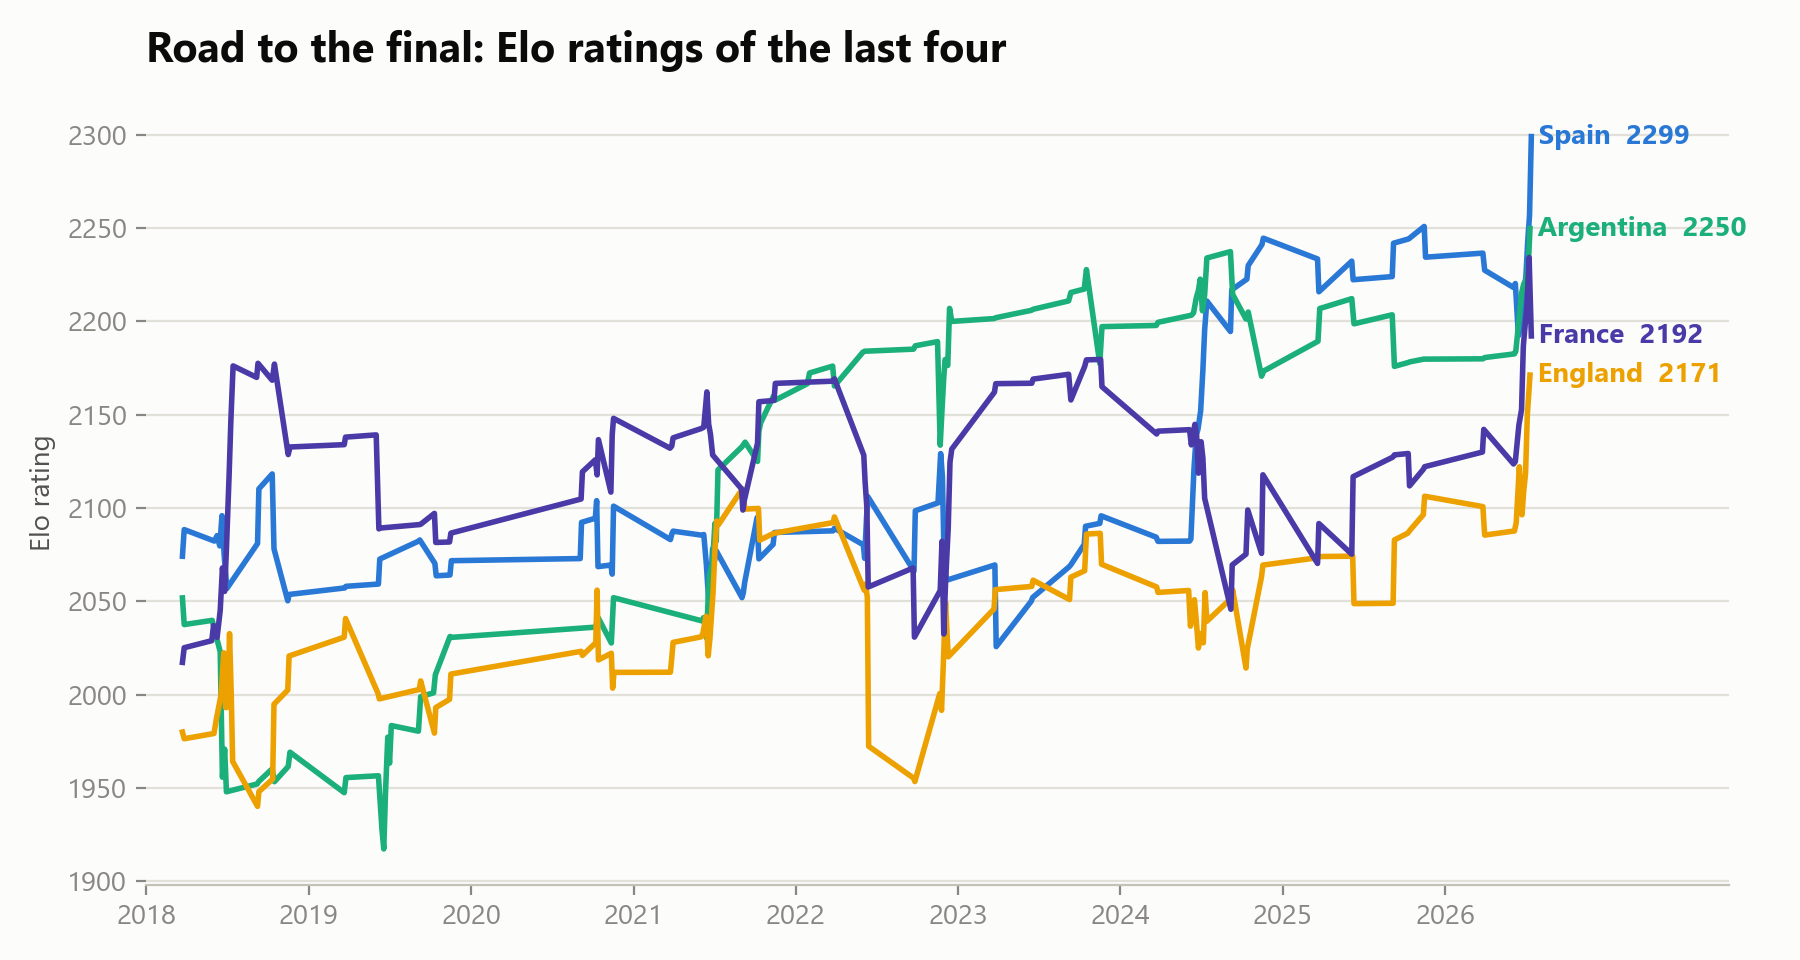
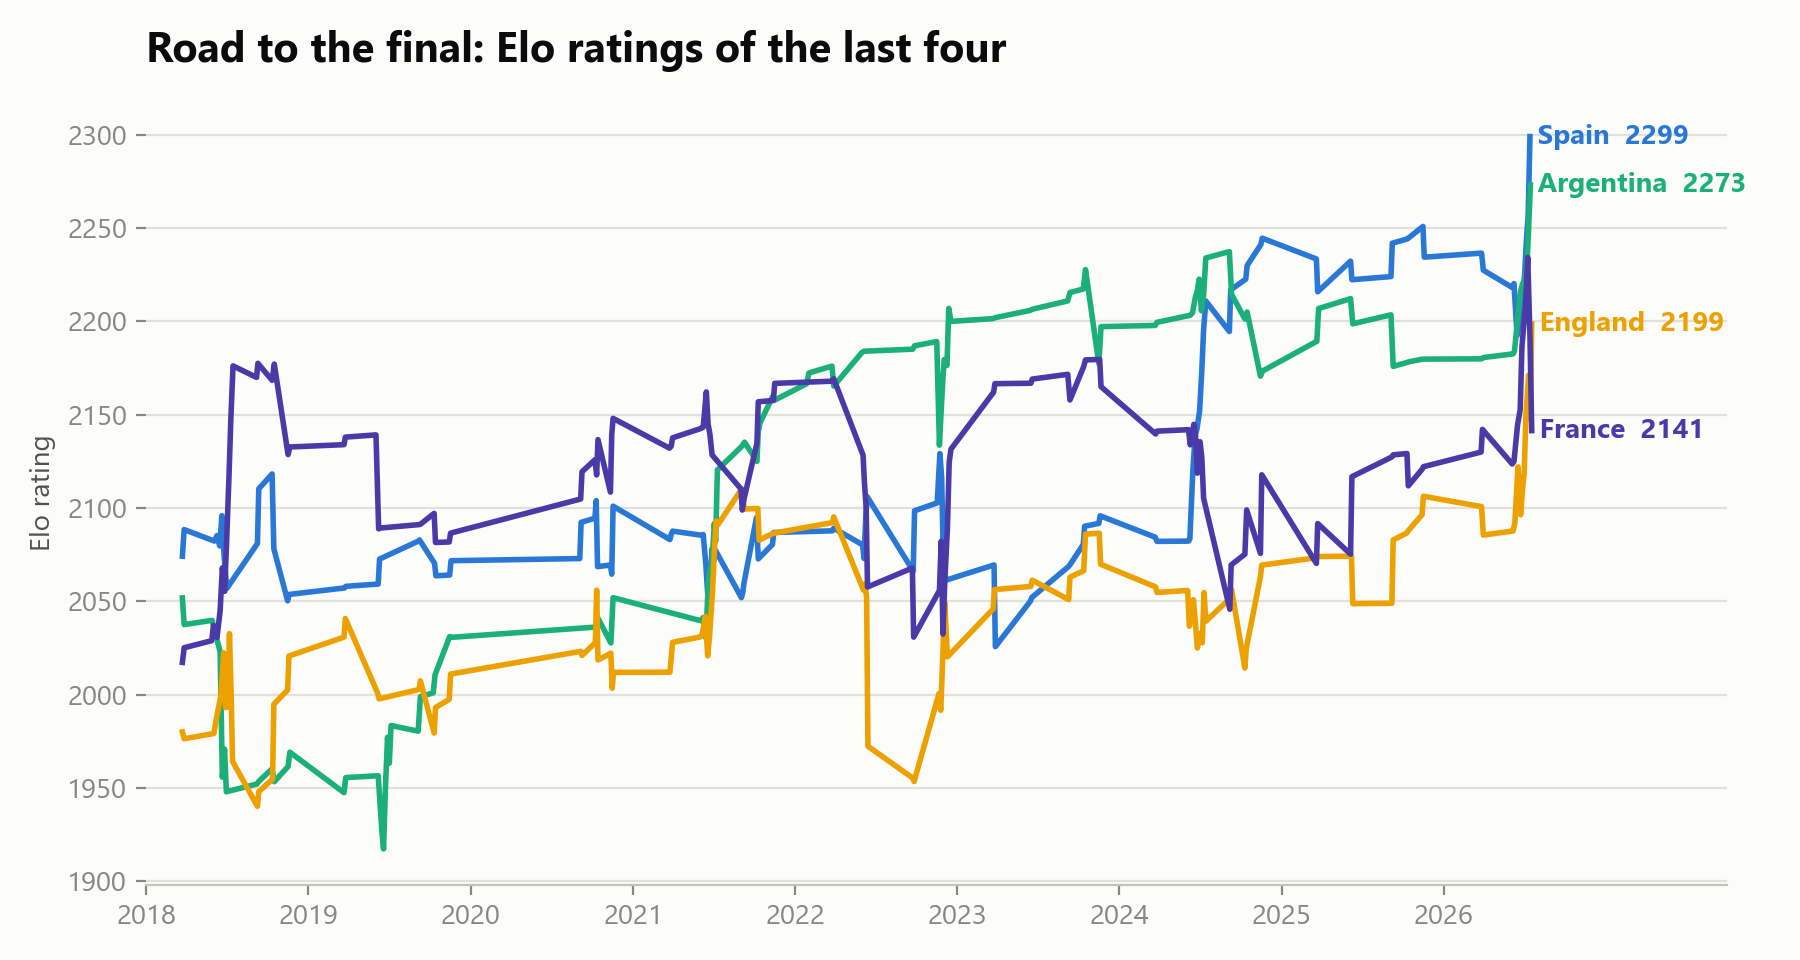
Pre-final update: Spain 54.2% vs Argentina 45.8%, semifinal call verified
Add semifinal (England 1-2 Argentina) and bronze final (France 4-6 England)
results, re-run ratings and simulation for the final only, extend backtest
to 103 matches, and log the correct 62.4% Argentina semifinal call.

diff --git a/wc_sim.py b/wc_sim.py
@@ -4,8 +4,8 @@ World Cup 2026 Monte Carlo simulator.
 Elo ratings computed over the full history of international football
 (martj42/international_results, CC0), an empirical draw model, a backtest on
 the 2026 World Cup matches already played, and a Monte Carlo simulation of
-the remaining bracket: England vs Argentina (semi, 15 Jul) and the final
-against Spain (19 Jul).
+the final: Spain vs Argentina (19 Jul). Ratings include the semifinal
+(England 1-2 Argentina) and the bronze final (France 4-6 England).
 
 Run:  python wc_sim.py
 """
@@ -168,7 +168,7 @@ print(f"\nBacktest on WC 2026 ({n} matches): "
       f"log loss {logloss:.4f} (uniform baseline {baseline:.4f})")
 
 # ------------------------------------------------------------- simulation --
-elo = {t: ratings[t] for t in ("Spain", "England", "Argentina")}
+elo = {t: ratings[t] for t in ("Spain", "Argentina")}
 print("\nCurrent Elo ratings:")
 for t, r in sorted(elo.items(), key=lambda x: -x[1]):
     print(f"  {t:<10} {r:7.0f}")
@@ -187,21 +187,12 @@ def sim_knockout(team_a: str, team_b: str, size: int) -> np.ndarray:
     a_wins_et = RNG.random(size) < p_a_et
     return a_wins_90 | (drawn & a_wins_et)
 
-eng_to_final = sim_knockout("England", "Argentina", N_SIMS)
-spain_beats_eng = ~sim_knockout("England", "Spain", N_SIMS)
 spain_beats_arg = sim_knockout("Spain", "Argentina", N_SIMS)
-spain_champ = (eng_to_final & spain_beats_eng) | (~eng_to_final & spain_beats_arg)
-eng_champ = eng_to_final & ~spain_beats_eng
-arg_champ = ~eng_to_final & ~spain_beats_arg
-
-p_semi_eng = eng_to_final.mean()
 champ = {
-    "Spain": spain_champ.mean(),
-    "England": eng_champ.mean(),
-    "Argentina": arg_champ.mean(),
+    "Spain": spain_beats_arg.mean(),
+    "Argentina": 1 - spain_beats_arg.mean(),
 }
-print(f"\nSemifinal tonight:  England {p_semi_eng:.1%}  vs  Argentina {1 - p_semi_eng:.1%}")
-print("Championship probabilities:")
+print("\nChampionship probabilities (final: Spain vs Argentina):")
 for t, p in sorted(champ.items(), key=lambda x: -x[1]):
     print(f"  {t:<10} {p:6.1%}")
 
@@ -219,7 +210,7 @@ ax.set_xlim(0, max(vals) * 1.22)
 ax.set_title("Who wins the 2026 World Cup?", fontsize=15, fontweight="bold",
              color=INK, loc="left", pad=14)
 ax.text(0, 1.02, f"Monte Carlo simulation, {N_SIMS:,} runs · Elo model · "
-                 f"before the England vs Argentina semifinal",
+                 f"before the final, 19 Jul 2026",
         transform=ax.transAxes, fontsize=9, color=INK_2)
 ax.set_axisbelow(True)
 ax.grid(axis="y", visible=False)
@@ -279,30 +270,32 @@ fig.savefig(OUT / "calibration.png", facecolor=SURFACE)
 plt.close(fig)
 
 # ------------------------------------------------------------- prediction --
-semi = predict(elo["England"] - elo["Argentina"])
-final_v_eng = predict(elo["Spain"] - elo["England"])
-final_v_arg = predict(elo["Spain"] - elo["Argentina"])
+final_90 = predict(elo["Spain"] - elo["Argentina"])
 
 with open(OUT / "predictions.md", "w", encoding="utf-8") as f:
-    f.write(f"""# World Cup 2026 — model predictions (published 15 Jul 2026)
+    f.write(f"""# World Cup 2026 — model predictions
 
 Elo + Monte Carlo ({N_SIMS:,} simulations), trained on {len(df):,} internationals
-since 1872. Code and data in this repo; nothing edited after the matches.
+since 1872. Code and data in this repo; each section is timestamped when
+published and never edited after the match is played.
 
-## Semifinal, 15 Jul 2026: England vs Argentina
+## Published 19 Jul 2026, before the final: Spain vs Argentina
 | outcome | probability |
 |---|---|
-| England win (in 90') | {semi[0]:.1%} |
-| Draw after 90' | {semi[1]:.1%} |
-| Argentina win (in 90') | {semi[2]:.1%} |
-| **England reach the final** | **{p_semi_eng:.1%}** |
+| Spain win (in 90') | {final_90[0]:.1%} |
+| Draw after 90' | {final_90[1]:.1%} |
+| Argentina win (in 90') | {final_90[2]:.1%} |
+| **Spain champions** | **{champ['Spain']:.1%}** |
+| **Argentina champions** | **{champ['Argentina']:.1%}** |
 
-## Final, 19 Jul 2026 (Spain qualified)
-| champion | probability |
-|---|---|
-| Spain | {champ['Spain']:.1%} |
-| England | {champ['England']:.1%} |
-| Argentina | {champ['Argentina']:.1%} |
+Ratings include the semifinal (England 1-2 Argentina) and the bronze final
+(France 4-6 England).
+
+## Track record (published 15 Jul 2026, before the second semifinal)
+- Semifinal, England vs Argentina: model gave Argentina 62.4% to reach the
+  final. Result: England 1-2 Argentina. Correct call.
+- Championship probabilities as of 15 Jul: Spain 62.3%, Argentina 26.2%,
+  England 11.5%.
 
 ## Model honesty check
 Backtest on the {n} WC 2026 matches already played:

diff --git a/README.md b/README.md
@@ -1,19 +1,29 @@
 # Can a simple model call the World Cup?
 
 An Elo + Monte Carlo forecast of the 2026 FIFA World Cup, published **before**
-the last two matches were played. Predictions are timestamped in
+the matches were played. Predictions are timestamped in
 [`outputs/predictions.md`](outputs/predictions.md) and nothing is edited after
 the results; the retro section below is filled in after the final.
 
-## Headline prediction (published 15 Jul 2026, before the second semifinal)
+## Headline prediction (published 19 Jul 2026, before the final)
 
 | Champion | Probability |
 |---|---|
-| Spain | **62.3%** |
-| Argentina | 26.2% |
-| England | 11.5% |
+| Spain | **54.2%** |
+| Argentina | 45.8% |
 
-Semifinal (15 Jul 2026): Argentina 62.4% vs England 37.6% to reach the final.
+Ratings updated for the semifinal (England 1-2 Argentina) and the bronze
+final (France 4-6 England). Argentina's comeback win closed the Elo gap to
+26 points (Spain 2299, Argentina 2273), turning a 62/26 pre-semifinal edge
+into a near coin flip.
+
+## Track record so far
+
+Published 15 Jul 2026, before the second semifinal:
+
+- Semifinal, England vs Argentina: **Argentina 62.4%** to reach the final.
+  Result: England 1-2 Argentina. **Correct call.**
+- Championship probabilities then: Spain 62.3%, Argentina 26.2%, England 11.5%.
 
 ![Championship probabilities](outputs/championship_probs.png)
 
@@ -36,29 +46,35 @@ Semifinal (15 Jul 2026): Argentina 62.4% vs England 37.6% to reach the final.
 
 ## Is the model honest? Backtest on this World Cup
 
-Before predicting the future I checked the model against the 101 matches of
+Before predicting the future I checked the model against the 103 matches of
 this tournament already played, using only pre-match ratings:
 
-- **Accuracy 64.4%** (picking the modal outcome of win/draw/win)
-- **Log loss 0.834** vs 1.099 for uniform guessing
+- **Accuracy 64.1%** (picking the modal outcome of win/draw/win)
+- **Log loss 0.837** vs 1.099 for uniform guessing
 - Calibration is close to the diagonal — when the model says 70%, it happens
   roughly 70% of the time:
 
 ![Calibration](outputs/calibration.png)
 
-## Why Spain?
+## Why is it so close?
 
 Spain enter the final with the highest Elo in the world (2299) after beating
-Portugal, Belgium and France without conceding more than one goal. The
-trajectory chart shows the last four's ratings since 2018:
+Portugal, Belgium and France without conceding more than one goal. But
+Argentina's semifinal comeback against England (two headed goals after the
+85th minute, both from Messi crosses) was worth a full K=60 World Cup win,
+lifting them to 2273. The trajectory chart shows the last four's ratings
+since 2018:
 
 ![Elo trajectories](outputs/elo_trajectories.png)
 
 ## Retro (to be completed after the final on 19 Jul 2026)
 
-- Semifinal result vs prediction: _pending_
+- Semifinal result vs prediction: model gave Argentina 62.4%; Argentina won
+  2-1. Correct.
 - Final result vs prediction: _pending_
-- What the model missed: _pending_
+- What the model missed: England's bronze-final 6-4 was the highest scoring
+  World Cup match since 1982; a team-level Elo model carries no signal about
+  a dead-rubber goal fest.
 
 ## Limitations
 

diff --git a/outputs/predictions.md b/outputs/predictions.md
@@ -1,24 +1,28 @@
-# World Cup 2026 — model predictions (published 15 Jul 2026)
+# World Cup 2026 — model predictions
 
-Elo + Monte Carlo (200,000 simulations), trained on 49,506 internationals
-since 1872. Code and data in this repo; nothing edited after the matches.
+Elo + Monte Carlo (200,000 simulations), trained on 49,508 internationals
+since 1872. Code and data in this repo; each section is timestamped when
+published and never edited after the match is played.
 
-## Semifinal, 15 Jul 2026: England vs Argentina
+## Published 19 Jul 2026, before the final: Spain vs Argentina
 | outcome | probability |
 |---|---|
-| England win (in 90') | 24.3% |
-| Draw after 90' | 29.2% |
-| Argentina win (in 90') | 46.5% |
-| **England reach the final** | **37.6%** |
+| Spain win (in 90') | 39.2% |
+| Draw after 90' | 29.0% |
+| Argentina win (in 90') | 31.8% |
+| **Spain champions** | **54.2%** |
+| **Argentina champions** | **45.8%** |
 
-## Final, 19 Jul 2026 (Spain qualified)
-| champion | probability |
-|---|---|
-| Spain | 62.3% |
-| England | 11.5% |
-| Argentina | 26.2% |
+Ratings include the semifinal (England 1-2 Argentina) and the bronze final
+(France 4-6 England).
+
+## Track record (published 15 Jul 2026, before the second semifinal)
+- Semifinal, England vs Argentina: model gave Argentina 62.4% to reach the
+  final. Result: England 1-2 Argentina. Correct call.
+- Championship probabilities as of 15 Jul: Spain 62.3%, Argentina 26.2%,
+  England 11.5%.
 
 ## Model honesty check
-Backtest on the 101 WC 2026 matches already played:
-accuracy 64.4%, Brier 0.4917, log loss 0.8340
+Backtest on the 103 WC 2026 matches already played:
+accuracy 64.1%, Brier 0.4937, log loss 0.8372
 (uniform-guess baseline 1.0986).